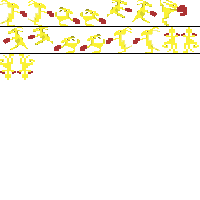
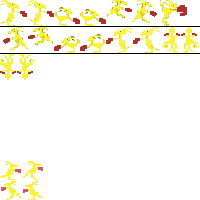
Sino criado
Classe do sino + sprites.

Changed region(s): [[0.0, 0.81, 0.21, 1.0]]

diff --git a/Player.hpp b/Player.hpp
@@ -11,9 +11,13 @@
 #include "Escada.hpp"
 #include "Fruta.hpp"
 #include "Pontuacao.hpp"
+#include "Sino.hpp"
+
 using namespace stairs;
 using namespace berry;
 using namespace points;
+using namespace bell;
+
 class Player {
 private:
 	sf::Vector2f pos;
@@ -76,12 +80,13 @@ public:
 		window->draw(player);
 	}
 	void moveEscada(float tempo, Escada vetorEscadas[]) {
-		if(testaHitboxPatamar(vetorEscadas) || testaHitboxEscada(vetorEscadas)){
-					descerEscada(tempo, vetorEscadas[0].getAlturaEscada(),
-							vetorEscadas[1].getAlturaEscada(),
-							vetorEscadas[2].getAlturaEscada(),vetorEscadas);
+		if (testaHitboxPatamar(vetorEscadas)
+				|| testaHitboxEscada(vetorEscadas)) {
+			descerEscada(tempo, vetorEscadas[0].getAlturaEscada(),
+					vetorEscadas[1].getAlturaEscada(),
+					vetorEscadas[2].getAlturaEscada(), vetorEscadas);
 
-		}else {
+		} else {
 
 			naopodePular = false;
 			subindoEscada = false;
@@ -94,13 +99,12 @@ public:
 				pulo = false;
 			}
 
-
 			subirEscada(tempo, vetorEscadas[0].getAlturaEscada());
 
 			descerEscada(tempo, vetorEscadas[0].getAlturaEscada(),
 					vetorEscadas[1].getAlturaEscada(),
 					vetorEscadas[2].getAlturaEscada(), vetorEscadas);
-		}else {
+		} else {
 
 			naopodePular = false;
 			subindoEscada = false;
@@ -177,14 +181,14 @@ public:
 				}
 			}
 		}
-		if(pulo==true){
-		tempoAnimacao += tempo;
-					if (tempoAnimacao > 0.1 && tempoAnimacao < 0.2) {
-						player.setTextureRect(up[0]);
-					} else if (tempoAnimacao > 0.3) {
-						player.setTextureRect(up[1]);
-						tempoAnimacao = 0;
-					}
+		if (pulo == true) {
+			tempoAnimacao += tempo;
+			if (tempoAnimacao > 0.1 && tempoAnimacao < 0.2) {
+				player.setTextureRect(up[0]);
+			} else if (tempoAnimacao > 0.3) {
+				player.setTextureRect(up[1]);
+				tempoAnimacao = 0;
+			}
 		}
 		tempoPulo += tempo;
 		delayPulo += tempo;
@@ -235,58 +239,71 @@ public:
 		}
 	}
 	void descerEscada(float tempo, int alturaEscada1, int alturaEscada2,
-			int alturaEscada3,Escada vetorEscadas[]) {
+			int alturaEscada3, Escada vetorEscadas[]) {
 		if (sf::Keyboard::isKeyPressed(sf::Keyboard::S)) {
-			if(testaHitboxPatamar(vetorEscadas)){
-							pos.y += 30 * tempo;
-							subindoEscada = true;
-							player.setPosition(pos);
+			if (testaHitboxPatamar(vetorEscadas)) {
+				pos.y += 30 * tempo;
+				subindoEscada = true;
+				player.setPosition(pos);
 
-						}else if ((pos.y >= alturaEscada1)
-								|| (pos.y >= alturaEscada2 && pos.y <= alturaEscada2 + 5)
-								|| (pos.y >= alturaEscada3 && pos.y <= alturaEscada3 + 5)) {
-							subindoEscada = false;
-						} else {
-							pos.y += 30 * tempo;
-							subindoEscada = true;
-							player.setPosition(pos);
-
-						}
-		}
-	}
-
-	bool testaHitboxEscada(Escada vetorEscadas[]){
-		bool encostouEscada = vetorEscadas[0].retornaHitBox().intersects(player.getGlobalBounds())|| vetorEscadas[1].retornaHitBox().intersects(player.getGlobalBounds())|| vetorEscadas[2].retornaHitBox().intersects(player.getGlobalBounds());
-		return encostouEscada;
-	}
-	bool testaHitboxPatamar(Escada vetorEscadas[]){
-			bool encostouPatamar = vetorEscadas[0].retornaHitBoxPatamar().intersects(player.getGlobalBounds())|| vetorEscadas[1].retornaHitBoxPatamar().intersects(player.getGlobalBounds())|| vetorEscadas[2].retornaHitBoxPatamar().intersects(player.getGlobalBounds());
-			return encostouPatamar;
-	}
-
-	void pegaFruta(Fruta *fruta,Pontuacao *pontos){
-			if(player.getGlobalBounds().intersects(fruta->retornaHitBoxFruta())){
-				fruta->frutaColetada(pontos);
-
-
-			}else {
+			} else if ((pos.y >= alturaEscada1)
+					|| (pos.y >= alturaEscada2 && pos.y <= alturaEscada2 + 5)
+					|| (pos.y >= alturaEscada3 && pos.y <= alturaEscada3 + 5)) {
+				subindoEscada = false;
+			} else {
+				pos.y += 30 * tempo;
+				subindoEscada = true;
+				player.setPosition(pos);
 
 			}
 		}
+	}
 
-	int retornaAndar(){
-		if(pos.y<470 && pos.y > 340){
+	bool testaHitboxEscada(Escada vetorEscadas[]) {
+		bool encostouEscada = vetorEscadas[0].retornaHitBox().intersects(
+				player.getGlobalBounds())
+				|| vetorEscadas[1].retornaHitBox().intersects(
+						player.getGlobalBounds())
+				|| vetorEscadas[2].retornaHitBox().intersects(
+						player.getGlobalBounds());
+		return encostouEscada;
+	}
+	bool testaHitboxPatamar(Escada vetorEscadas[]) {
+		bool encostouPatamar =
+				vetorEscadas[0].retornaHitBoxPatamar().intersects(
+						player.getGlobalBounds())
+						|| vetorEscadas[1].retornaHitBoxPatamar().intersects(
+								player.getGlobalBounds())
+						|| vetorEscadas[2].retornaHitBoxPatamar().intersects(
+								player.getGlobalBounds());
+		return encostouPatamar;
+	}
+
+	void pegaFruta(Fruta *fruta, Pontuacao *pontos) {
+		if (player.getGlobalBounds().intersects(fruta->retornaHitBoxFruta())) {
+			fruta->frutaColetada(pontos);
+
+		} else {
+
+		}
+	}
+
+	int retornaAndar() {
+		if (pos.y < 470 && pos.y > 340) {
 			return 1;
-		}else if(pos.y<340 && pos.y > 205){
+		} else if (pos.y < 340 && pos.y > 205) {
 			return 2;
-		}else if( pos.y < 205){
+		} else if (pos.y < 205) {
 			return 3;
-		}else {
+		} else {
 			return 0;
 		}
 
+	}
+	void testaHitboxSino(Sino *sino) {
+		if (player.getGlobalBounds().intersects(sino->retornaHitBoxSino())) {
 
-
+		}
 	}
 };
 

diff --git a/Sino.hpp b/Sino.hpp
@@ -1,0 +1,56 @@
+/*
+ * Sino.hpp
+ *
+ *  Created on: Oct 3, 2024
+ *      Author: Ana Luiza
+ */
+
+#ifndef SINO_HPP_
+#define SINO_HPP_
+namespace bell{
+class Sino {
+private:
+	sf::Texture sinoTexture;
+	sf::Sprite sino;
+	sf::IntRect rightSino;
+	sf::IntRect normalSino;
+	sf::IntRect leftSino;
+	sf::Vector2f pos;
+	bool tocado;
+
+public:
+	Sino() {
+		pos.x = 750;
+		pos.y = 120;
+		tocado = false;
+		setAnimation();
+		loadTextureSino();
+		setSprite();
+
+	}
+	void loadTextureSino() {
+		if (!sinoTexture.loadFromFile("assets/Sino.png"))
+			std::cerr << "Erro ao carregar a textura do Sino" << std::endl;
+	}
+	void setAnimation() {
+		rightSino = sf::IntRect(0, 48, 44, 44);
+		normalSino = sf::IntRect(0, 0, 44, 44);
+		leftSino = sf::IntRect(56, 0, 44, 44);
+	}
+	void setSprite() {
+		sino.setTexture(sinoTexture);
+		sino.setTextureRect(normalSino);
+		sino.setPosition(pos);
+		sino.setScale(sf::Vector2f(1, 1));
+		sino.setOrigin(22, 22);
+	}
+	void printSino(sf::RenderWindow *window) {
+		window->draw(sino);
+	}
+	sf::FloatRect retornaHitBoxSino() {
+		sf::FloatRect hitboxSino = sino.getGlobalBounds();
+		return hitboxSino;
+	}
+};
+}
+#endif /* SINO_HPP_ */

diff --git a/Jogo.hpp b/Jogo.hpp
@@ -16,6 +16,8 @@
 #include "Escada.hpp"
 #include "Fruta.hpp"
 #include "Pontuacao.hpp"
+#include "Sino.hpp"
+
 using namespace stairs;
 using namespace std;
 using namespace berry;
@@ -33,6 +35,7 @@ private:
 	Pontuacao vidas;
 	Player jogador;
 	Mapa mapa;
+	Sino bell;
 	Macaco monkey;
 	Fruta frutas [3];
 	Escada escadas[3];
@@ -67,6 +70,7 @@ private:
 		palavra2.printText(&window);
 		pontos.printText(&window);
 		vidas.printText(&window);
+		bell.printSino(&window);
 
 		window.display(); //atualiza tela
 	}
